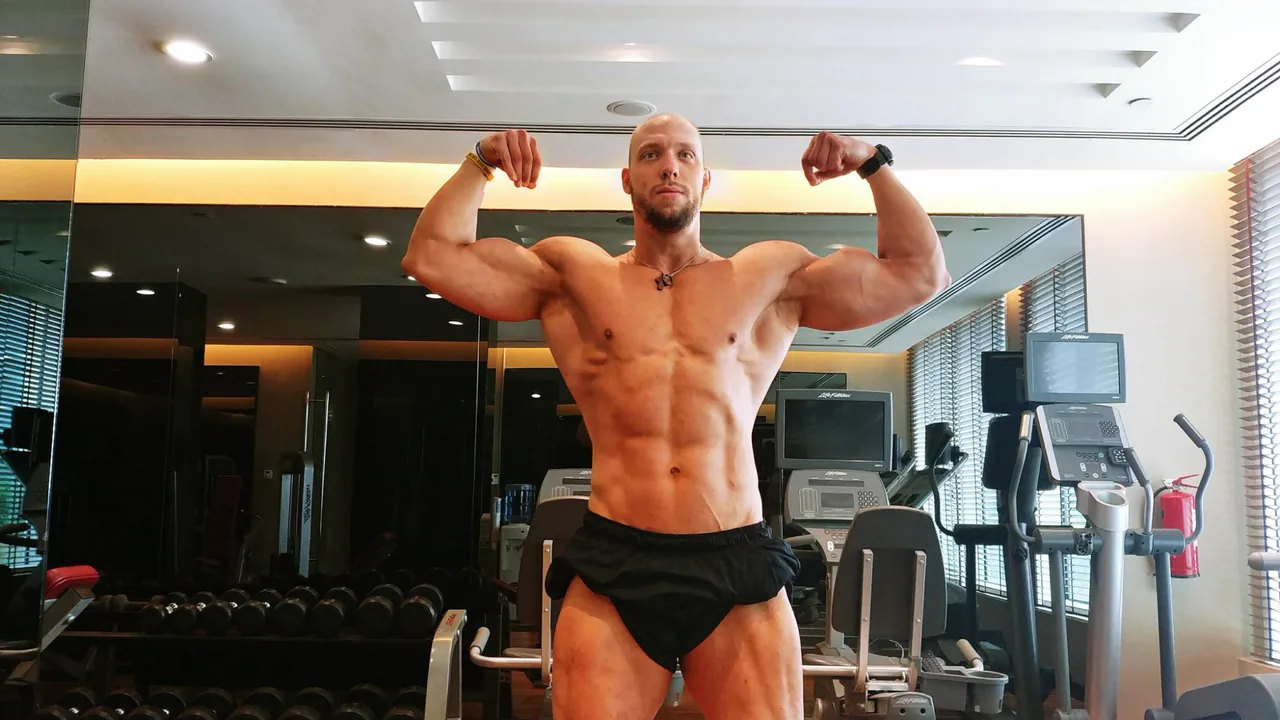
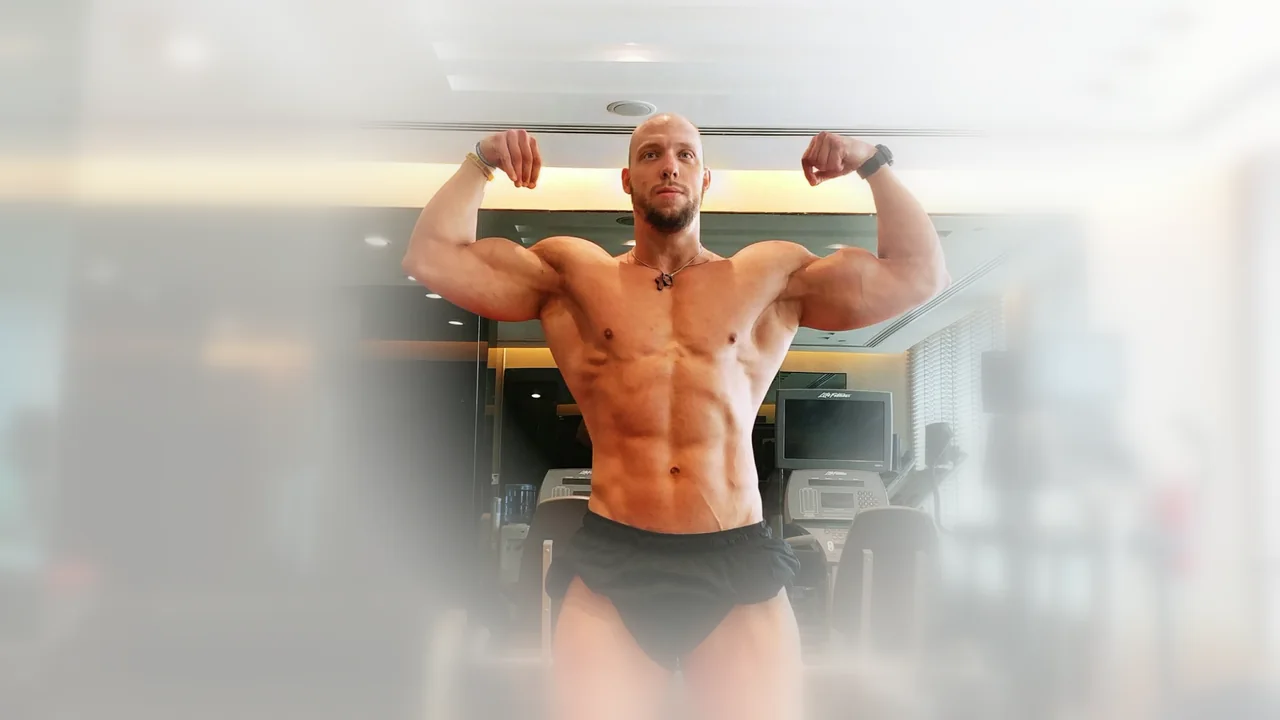
feat: homepage shows the 3 newest blog posts; soft blurred final CTA photo
- Blog section on the homepage always lists the 3 most recent posts (by publishedAt); older ones stay on /blog
- Final CTA photo: coach stays sharp, background blurs and fades into #fdfcfa

diff --git a/src/components/blog/HomeBlogSection.tsx b/src/components/blog/HomeBlogSection.tsx
@@ -9,7 +9,10 @@ export function HomeBlogSection() {
   const { t, i18n } = useTranslation("blog");
   const { to } = useAppLocale();
   const { posts } = usePublishedBlogPosts();
-  const featured = posts.filter((post) => post.featuredOnHomepage).slice(0, 3);
+  // Always the 3 newest posts; older ones stay on the /blog page
+  const featured = [...posts]
+    .sort((a, b) => new Date(b.publishedAt).getTime() - new Date(a.publishedAt).getTime())
+    .slice(0, 3);
 
   if (featured.length === 0) return null;
 
